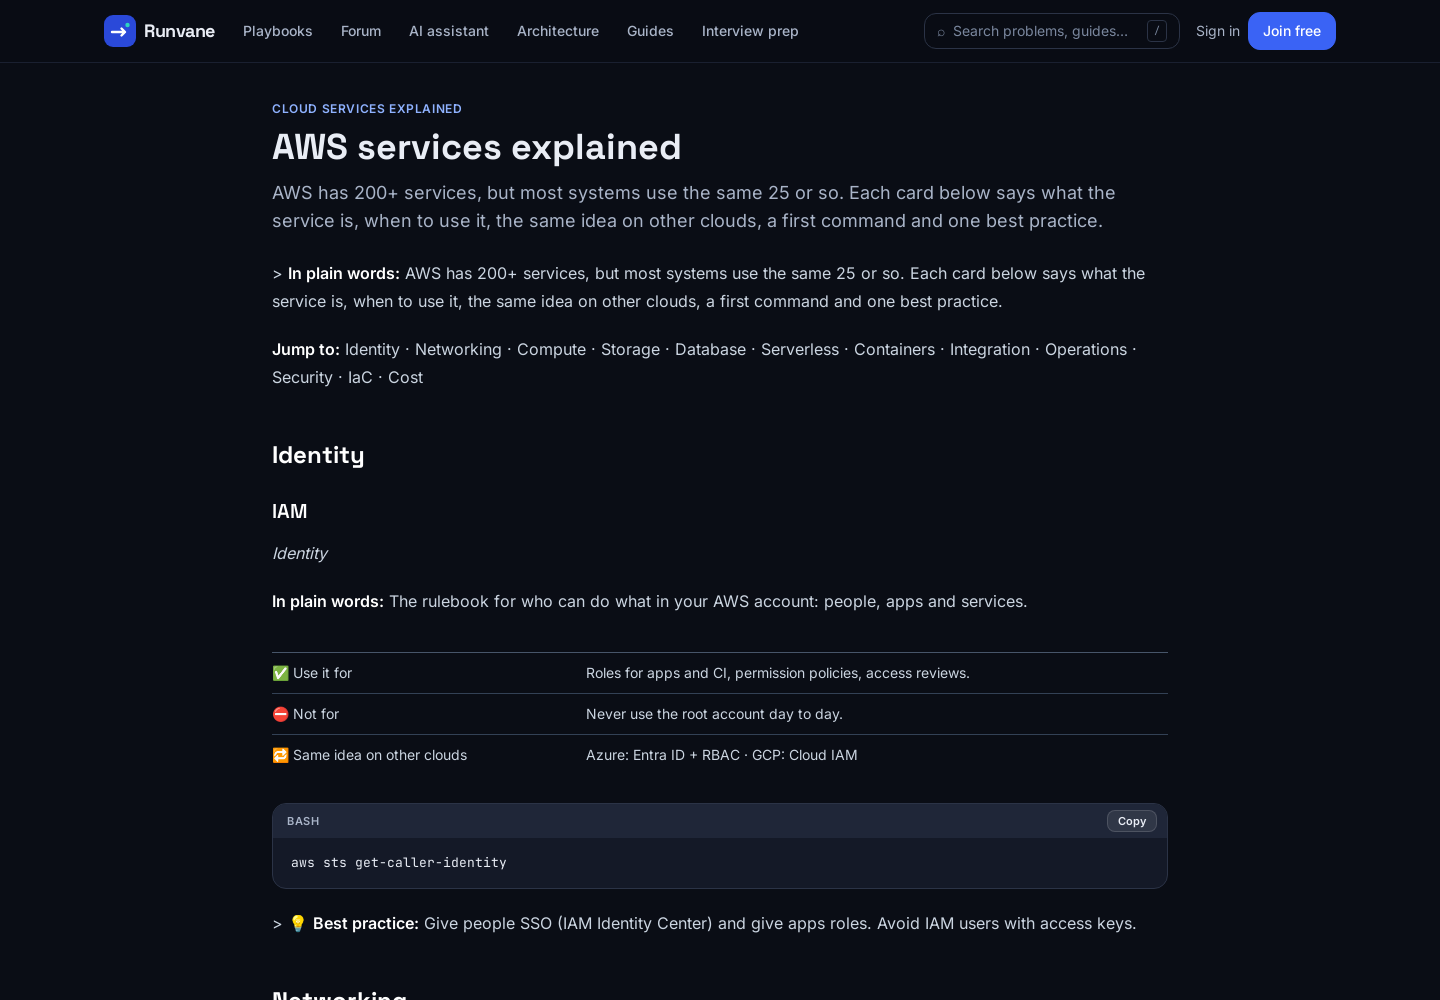
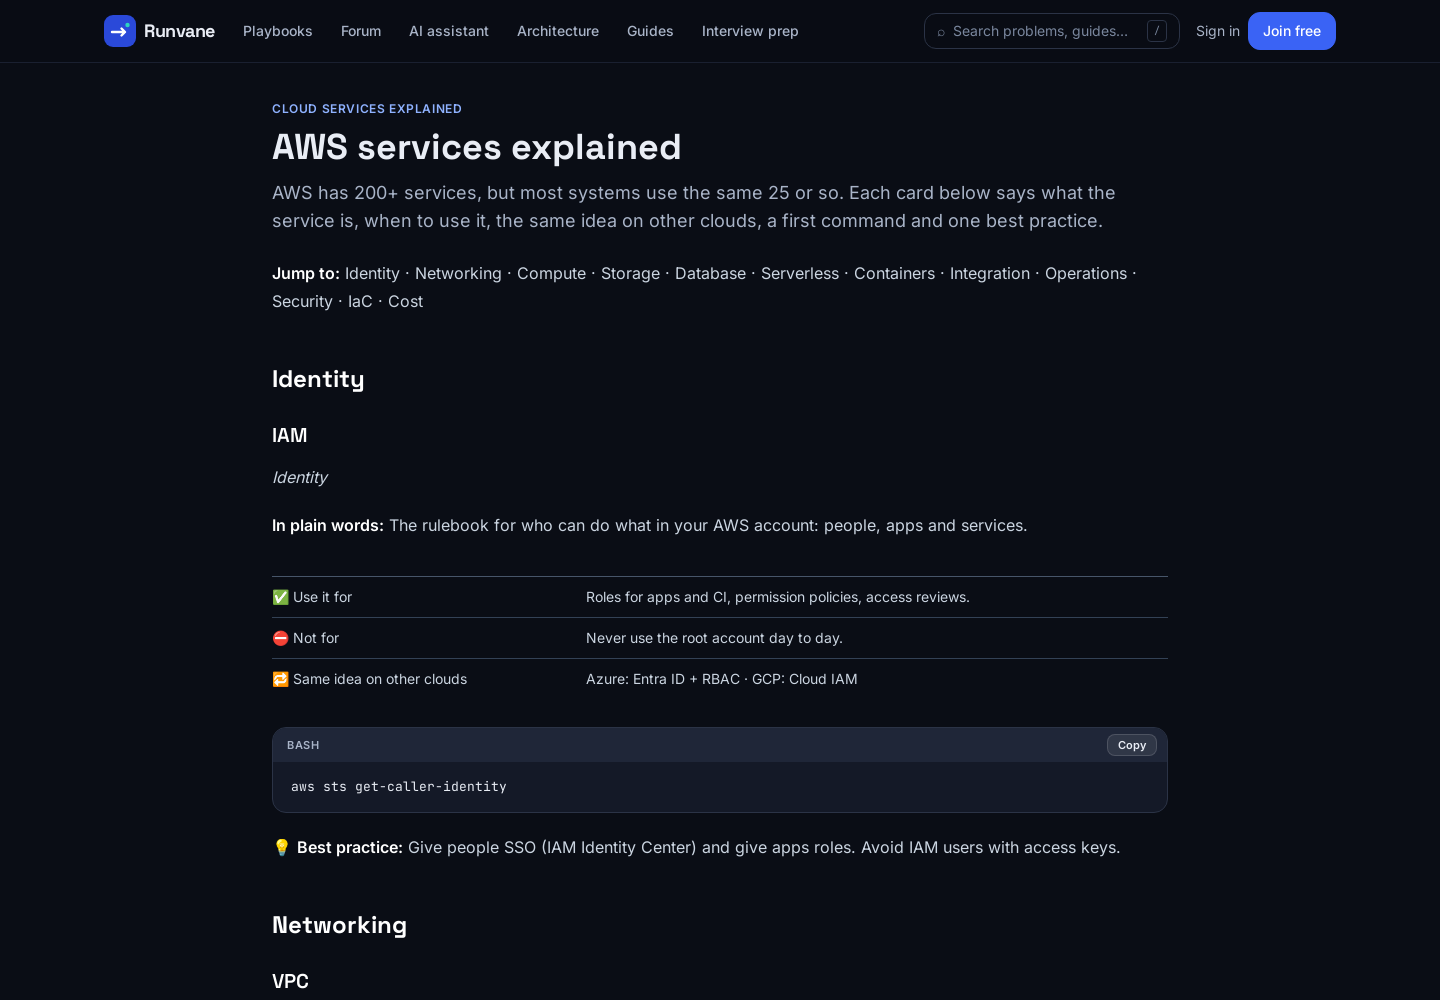
docs: README with live screenshots, features, architecture, run and update steps

diff --git a/content_src/guide_extras.py b/content_src/guide_extras.py
@@ -1,0 +1,162 @@
+"""Per-guide plain-language summary, best practices, common mistakes and recommendations."""
+
+# id: (in plain words, [best practices], [common mistakes], what we recommend)
+EXTRAS = {
+    "linux": (
+        "Linux is the operating system under almost every server, container and cloud VM. Administering it means knowing what is running, what is using resources, and how to change it safely.",
+        ["Log in with SSH keys only; disable password and root login", "Run each service as its own non-root user under systemd", "Rotate logs and alert on disk and inode usage at 80%",
+         "Apply security updates automatically; reboot in a planned window", "Change config in a file under version control, not by hand on the box"],
+        ["Running apps as root", "Editing production config without a backup or `sshd -t` / `nginx -t` test", "Ignoring `df -i` (inodes) when the disk looks full", "Killing a process holding a deleted log instead of rotating properly"],
+        "Treat servers as cattle: build them from a script (cloud-init or Ansible), keep them patched automatically, and never fix the same thing by hand twice."),
+    "networking": (
+        "Every request travels DNS → TCP → TLS → load balancer or proxy → app. When something is slow or failing, walk that path step by step and check each hop.",
+        ["Terminate TLS at the edge with automatic renewal (Let's Encrypt / ACM)", "Put nginx or a load balancer in front of every app; never expose app ports directly",
+         "Set timeouts consistently: client < proxy < upstream keep-alive", "Rate-limit login and API paths", "Keep databases in private subnets with no public IP"],
+        ["Opening 0.0.0.0/0 on SSH or database ports", "Mismatched keep-alive timeouts causing random 502s", "Forgetting to forward `Host` and `X-Forwarded-*` headers", "Low DNS TTL never set before a migration"],
+        "Draw the request path once for each service. When an incident happens, use it as a checklist: DNS, TLS, proxy logs, app logs, database."),
+    "docker": (
+        "A container image packages your app with everything it needs, so it runs the same on a laptop, in CI and in production.",
+        ["Multi-stage builds; small base images pinned by version or digest", "Copy dependency files and install before copying code (better caching)", "Run as a non-root user; add a HEALTHCHECK",
+         "Tag images with the git commit SHA, never deploy `latest`", "Scan images in CI and rebuild weekly for patches"],
+        ["Secrets baked into image layers or `ENV`", "One giant layer with build tools left inside", "Writing data inside the container instead of a volume", "Unbounded container logs filling the disk"],
+        "Start every service from a reviewed Dockerfile template, scan with Trivy in the pipeline, and set log rotation on every Docker host."),
+    "kubernetes": (
+        "Kubernetes runs your containers across machines and keeps them in the state you describe: how many copies, how much CPU and memory, and how to roll out changes.",
+        ["Set CPU/memory requests on every container (and memory limits)", "Readiness and liveness probes on real endpoints", "At least 2 replicas + PodDisruptionBudget for anything user-facing",
+         "Rolling updates with `maxUnavailable: 0`", "One namespace per team or environment with ResourceQuotas and RBAC", "Secrets from a vault via External Secrets, not plain YAML in Git"],
+        ["No requests → noisy neighbours and broken HPA", "Liveness probe so strict it restarts healthy pods under load", "Using `latest` image tags", "Running everything in the `default` namespace with cluster-admin"],
+        "Package apps with Helm, deploy with GitOps (Argo CD), autoscale with HPA, and watch restarts, pending pods and OOMKilled as your first three alerts."),
+    "cicd": (
+        "A pipeline turns every commit into a tested, scanned, versioned artifact and deploys it the same way every time, so releases become boring.",
+        ["Build once, promote the same artifact through environments", "Protect main: PR reviews + required pipeline checks", "Use OIDC / workload identity instead of stored cloud keys",
+         "Keep pipelines as code with shared templates", "Fail fast: lint and unit tests first, slow scans later", "Approvals and checks on production environments"],
+        ["Rebuilding a different artifact for each environment", "Long-lived secrets in pipeline variables", "Deploys that need manual steps nobody documented", "No rollback path"],
+        "Aim for trunk-based development, a 10-minute pipeline, automated deploy to staging, one-click (or automatic canary) promotion to production, and DORA metrics to track it."),
+    "iac": (
+        "Infrastructure as code means your networks, servers and databases are described in files, reviewed in pull requests, and created by a tool instead of clicks.",
+        ["Remote, locked, encrypted state (S3+DynamoDB / Azure Storage / Terraform Cloud)", "Small reusable modules with pinned versions", "One root and one state per environment",
+         "Plan in the PR, apply the saved plan after approval", "Scan IaC with Checkov/tfsec; detect drift on a schedule"],
+        ["Local state files on a laptop", "Giant single state for everything (slow, risky)", "Console changes that drift from code", "Secrets in `.tfvars` committed to Git"],
+        "Use Terraform (or Pulumi if your team prefers real code) for cloud resources, Ansible or images for what runs on machines, and apply only from pipelines."),
+    "python": (
+        "Python is the glue for automation: calling APIs, talking to clouds, cleaning up resources and building internal tools. Reliable scripts matter more than clever ones.",
+        ["Timeouts on every network call", "Retry only transient errors, with exponential backoff and jitter", "Use the logging module; exit non-zero on failure",
+         "Dry-run mode by default for anything destructive", "Pin dependencies and use a virtualenv per tool"],
+        ["Bare `except:` swallowing errors", "Retrying non-idempotent writes", "Hard-coded credentials instead of the SDK's credential chain", "No pagination on cloud API calls"],
+        "Write automation as small CLI tools with `--dry-run`, structured logs and tests, and run them from the pipeline or a scheduler, not from someone's laptop."),
+    "gitops": (
+        "Helm packages a Kubernetes app; GitOps makes Git the single source of truth, and a controller in the cluster keeps it in sync.",
+        ["One values file per environment; no secrets in values", "Promote by pull request (change the image tag)", "Argo CD with auto-sync + self-heal for non-prod, manual sync or waves for prod",
+         "Use `helm upgrade --atomic` in push-based setups", "Keep chart versions and app versions separate"],
+        ["Editing cluster objects by hand (drift)", "Secrets committed in plain YAML", "One mega-chart for many unrelated apps"],
+        "Separate app repos from an environment (deploy) repo; let CI build and bump tags, and Argo CD deploy."),
+    "ansible": (
+        "Ansible configures servers over SSH from YAML playbooks: packages, files, users, services and patches, safely repeatable.",
+        ["Use modules (idempotent) instead of `shell` commands", "Roles per component, variables per environment", "Encrypt secrets with Ansible Vault",
+         "Run with `--check --diff` first; roll changes with `serial`", "Keep inventories dynamic from the cloud"],
+        ["Shell commands that change things on every run", "Patching all servers at once", "Plain-text passwords in group_vars"],
+        "Bake common setup into images (Packer) and use Ansible for the rest, with rolling patch playbooks run on a schedule."),
+    "aws": (
+        "AWS offers building blocks for networks, compute, storage, databases and security. Good AWS design is mostly about identity, networking and choosing managed services.",
+        ["AWS Organizations with separate accounts per environment", "SSO (IAM Identity Center) for people; roles for workloads; no IAM users with keys",
+         "Multi-AZ for anything production", "VPC endpoints for S3/ECR to cut NAT cost", "CloudTrail, GuardDuty, Config and budgets on from day one"],
+        ["Everything in one account and one AZ", "Public S3 buckets or databases", "Root account used day to day", "No tags, so nobody owns the bill"],
+        "Start with a landing zone (Control Tower), managed services (RDS, EKS/ECS, ALB), Terraform for everything, and least-privilege roles per service."),
+    "aws-catalog": (
+        "A map of the AWS services you will meet, grouped by job, with the Azure and GCP equivalents so you can translate designs between clouds.",
+        ["Prefer managed services over self-hosting when the team is small", "Pick the simplest service that meets the need (S3 before EFS, SQS before Kafka)", "Check regional availability and pricing early"],
+        ["Choosing a service because it is new rather than needed", "Ignoring data-transfer costs between services and AZs"],
+        "Learn the core first: IAM, VPC, EC2/ASG, ELB, S3, RDS, CloudWatch. Then EKS/ECS, SQS/SNS/EventBridge, Lambda and the security services."),
+    "azure": (
+        "Azure's model centres on Entra ID identities, subscriptions and resource groups, with managed identities and Key Vault for secrets.",
+        ["Management groups + subscriptions per environment", "Managed identities and workload identity federation; no client secrets", "Key Vault with RBAC, private endpoints and purge protection",
+         "Azure Policy for guardrails", "Private endpoints for PaaS databases and storage"],
+        ["Service principals with long-lived secrets in pipelines", "Owner role handed out broadly", "Public endpoints on databases"],
+        "Use Azure DevOps or GitHub with workload identity federation, AKS with Workload Identity, and Key Vault as the single source for secrets."),
+    "gcp": (
+        "GCP organises everything in projects under folders; IAM is granted on resources, and services like GKE Autopilot and Cloud Run remove a lot of operations work.",
+        ["One project per app per environment", "Service accounts per workload; Workload Identity Federation for CI", "Cloud Run or GKE Autopilot before managing nodes"],
+        ["Using the default compute service account with broad roles", "Primitive roles (Owner/Editor) everywhere"],
+        "Start with Cloud Run for stateless services, Cloud SQL for databases, and Artifact Registry + Cloud Build or GitHub Actions for delivery."),
+    "cloudflare": (
+        "Cloudflare sits in front of your site: DNS, caching, the web application firewall and Zero Trust access, so attacks and load stop before reaching your server.",
+        ["Proxied DNS with SSL/TLS Full (strict) and an origin certificate", "Firewall the origin to Cloudflare IPs only (or use a Tunnel)", "Managed WAF rules + rate limiting on login and API",
+         "Cache static assets with versioned file names", "Access (Zero Trust) in front of admin tools instead of a VPN"],
+        ["Flexible SSL (unencrypted to the origin)", "Origin IP still exposed and attackable directly", "Caching logged-in pages"],
+        "Put every public hostname behind Cloudflare, lock the origin, and move internal tools behind Access + Tunnel."),
+    "serverless": (
+        "Serverless runs your code only when events arrive and scales automatically; you pay per use and manage no servers.",
+        ["Make handlers idempotent; events can arrive twice", "Dead-letter queues and alerts on failures", "Keep functions small and fast; watch cold starts", "Least-privilege role per function"],
+        ["Long-running or steady heavy workloads on functions (expensive)", "No timeouts or retries configured", "Huge deployment packages"],
+        "Use serverless for event-driven glue, APIs with spiky traffic and scheduled jobs; use containers for steady services."),
+    "observability": (
+        "Observability is knowing what your system is doing from its metrics, logs and traces, and being able to jump between them during an incident.",
+        ["Unified tags (service, env, version) on every metric, log and trace", "Structured JSON logs with trace IDs", "Dashboards per service with RED metrics",
+         "Alert on user symptoms (errors, latency, SLO burn), not on every CPU spike", "Every alert has an owner and a runbook link"],
+        ["Hundreds of noisy alerts nobody reads", "Logs indexed at full volume (huge bill)", "No deploy markers on dashboards"],
+        "Define SLOs for key journeys, alert on burn rate, route pages to on-call, and keep monitors as code."),
+    "monitoring": (
+        "Prometheus collects metrics, Grafana shows them, Alertmanager routes alerts, and Loki or Elasticsearch stores logs: the self-hosted monitoring stack.",
+        ["Use histograms for latency so you can compute p95/p99", "Keep label cardinality low (no user IDs as labels)", "Recording rules for expensive queries", "Alert rules with `for:` durations"],
+        ["Graphing raw counters instead of `rate()`", "Unbounded labels exploding memory", "Alerts without runbooks"],
+        "Install kube-prometheus-stack, start from community dashboards, and add your own SLO-based alerts."),
+    "sre": (
+        "Site reliability engineering treats reliability as a feature: measure what users feel, set a target, and spend the error budget wisely.",
+        ["Pick 1–3 SLIs per critical user journey", "Set SLOs slightly below current performance", "Multi-window burn-rate alerts", "Blameless postmortems with tracked actions", "Automate toil"],
+        ["SLOs of 100%", "Too many SLOs nobody reviews", "Treating every incident as someone's fault"],
+        "Review error budgets weekly with product: when the budget is gone, reliability work comes first."),
+    "oncall": (
+        "On-call means someone is ready to respond when production breaks. Good on-call is calm, practised and fair.",
+        ["Clear escalation policies and handovers", "Runbooks linked from every alert", "Mitigate first (rollback, scale), investigate later", "Communicate on a fixed cadence", "Track MTTA/MTTR and alert noise"],
+        ["Paging for non-urgent issues", "One person always on call", "No postmortems after big incidents"],
+        "Use PagerDuty (or similar) with weekly rotations, two levels of escalation, and a monthly review of every page."),
+    "devsecops": (
+        "DevSecOps builds security into every step: code, dependencies, images, infrastructure and runtime, with checks that run automatically in the pipeline.",
+        ["Secret scanning and SAST on every PR", "Dependency and image scanning with severity gates", "SBOM + signed images; verify at admission",
+         "OIDC / workload identity for all pipeline cloud access", "Policy as code (Kyverno/OPA, Checkov) for clusters and IaC"],
+        ["Blocking every finding (teams start ignoring the tools)", "Long-lived tokens in CI variables", "Scanning once and never again after release"],
+        "Gate on Critical/High with a fix available, track exceptions with expiry dates, and re-scan running images continuously."),
+    "iam": (
+        "Identity and access decides who and what can do what. Most breaches start with a leaked or over-powered credential.",
+        ["SSO + MFA for every human", "Roles and short-lived credentials for workloads", "Least privilege, reviewed with last-used data", "Secrets in a vault, rotated automatically", "Break-glass accounts locked away with alerts"],
+        ["Shared admin accounts", "Access keys older than 90 days", "Wildcard `*` permissions"],
+        "Federate everything to one identity provider and remove every long-lived key you can find."),
+    "patching": (
+        "Patch management keeps servers, images and endpoints updated on a schedule, proves it with reports, and has a way back when a patch breaks something.",
+        ["Prioritise by exploitability (KEV, EPSS) and exposure, not only CVSS", "Patch in rings: pilot → broad → critical", "Snapshots/AMIs before patching; rollback documented",
+         "Rebuild container images instead of patching inside them", "Report compliance per team with SLAs"],
+        ["Patching everything at once", "No test or pilot group", "Exceptions that never expire"],
+        "Automate OS patching (Ivanti, AWS Patch Manager, Ansible) in maintenance windows and rebuild images weekly."),
+    "architecture": (
+        "Solution architecture is choosing how the pieces fit to meet the goals: availability, security, performance and cost, and explaining the trade-offs.",
+        ["Start from requirements: users, SLOs, RPO/RTO, budget, compliance", "Stateless app tier, managed data services, async work in queues", "Design for failure of an AZ",
+         "Write ADRs for important decisions", "Estimate cost early"],
+        ["Microservices before you need them", "Single points of failure", "Designs with no numbers (traffic, latency, cost)"],
+        "Use the Well-Architected pillars as a checklist and draw the design on the Runvane board for an AI review before building."),
+    "data": (
+        "Data systems are where most performance problems and the worst outages end. Know replication, backups, indexes, pooling, caching and queues.",
+        ["Backups + point-in-time recovery, with regular restore tests", "Connection pooling sized to the database limit", "Indexes for your real queries; check plans",
+         "Cache-aside with TTL jitter", "Queues for slow or bursty work"],
+        ["Never testing a restore", "Every pod opening its own large pool", "Long transactions holding locks", "Schema changes that lock big tables"],
+        "Use managed databases, monitor slow queries and replication lag, and run expand/contract migrations."),
+    "hadr": (
+        "High availability keeps you up when parts fail; disaster recovery brings you back after losing a region or your data.",
+        ["Define RPO/RTO per service", "Multi-AZ by default; cross-region for critical data", "Immutable, cross-account backups", "Practise failover in game days"],
+        ["Backups in the same account and region", "DR plan that was never tested", "Assuming the cloud provider does DR for you"],
+        "Pick backup-restore, pilot light or warm standby per service based on RTO, and test it every quarter."),
+    "finops": (
+        "FinOps makes cloud cost an engineering metric: know who spends what, and use the levers that cut cost without hurting reliability.",
+        ["Mandatory tags (owner, service, env)", "Budgets and anomaly alerts per team", "Right-size from real usage", "Savings Plans for baseline, Spot for burst", "Clean up idle resources automatically"],
+        ["Nobody owns the bill", "NAT gateway and cross-AZ traffic surprises", "Dev environments running all weekend"],
+        "Review cost weekly per team, automate shutdown of non-prod at night, and buy commitments only for steady load."),
+    "bash": (
+        "Bash scripts glue tools together. Good scripts fail loudly, quote everything and clean up after themselves.",
+        ["`set -euo pipefail` at the top", "Quote every variable", "`trap` for cleanup", "Check inputs and print usage", "ShellCheck in CI"],
+        ["Unquoted variables with spaces", "Ignoring exit codes in pipelines", "Hard-coded paths and secrets"],
+        "Keep scripts short; when they grow past a page, move to Python or Ansible."),
+    "git": (
+        "Git records every change. A clean branching model and protected main branch keep releases predictable.",
+        ["Trunk-based development with short-lived branches", "Protected main: reviews + required checks", "Small, focused commits with clear messages", "Tags for releases (SemVer)"],
+        ["Long-lived feature branches", "Force-pushing shared branches", "Committing secrets"],
+        "Use PRs for every change, Conventional Commits, and secret scanning on push."),
+}
